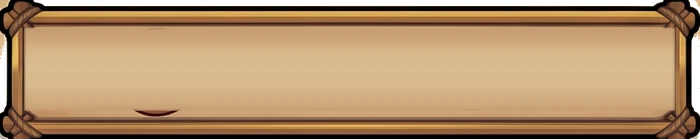
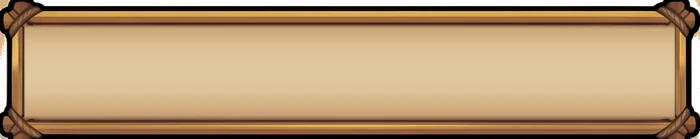
fix(leaderboard): no sideways scroll, styled scrollbar, clean row art
- Rows can scale on hover without a horizontal scrollbar or slipping
  under the frame
- Vertical scrollbar inside the frame in the art's colours
- Row art re-cleaned: no leftover avatar slot outline

diff --git a/apps/client/src/styles.css b/apps/client/src/styles.css
@@ -7074,3 +7074,46 @@ button.code-field {
   transform: translateY(1px) scale(0.97);
   transition-duration: 0.06s;
 }
+
+/* ======================================================================
+   Leaderboard list: no sideways scrolling (the hover scale used to spill
+   over), room around the cards so they don't slip under the frame, and a
+   scrollbar inside the frame in the art's colours
+   ====================================================================== */
+
+.board-dialog .leaderboard__list {
+  overflow-x: hidden;
+  overflow-y: auto;
+  /* space for the 2 % hover scale and the shadow, plus the scrollbar gutter */
+  padding: 6px 6px 8px 8px;
+  margin-right: 2px;
+  scrollbar-gutter: stable;
+  scrollbar-width: thin;
+  scrollbar-color: #b07a3a rgba(90, 56, 26, 0.18);
+}
+
+.board-dialog .leaderboard__list::-webkit-scrollbar {
+  width: 8px;
+}
+
+.board-dialog .leaderboard__list::-webkit-scrollbar-track {
+  margin: 6px 0;
+  border-radius: 999px;
+  background: rgba(90, 56, 26, 0.18);
+}
+
+.board-dialog .leaderboard__list::-webkit-scrollbar-thumb {
+  border-radius: 999px;
+  background: linear-gradient(#d9a24e, #a8743e);
+  border: 1px solid #6b3f1d;
+}
+
+.board-dialog .leaderboard__list::-webkit-scrollbar-button {
+  display: none;
+  height: 0;
+}
+
+/* The pinned row keeps the same side margins as the list rows */
+.board-dialog__body > .lb-row--pinned {
+  margin: 0 16px 0 8px;
+}

diff --git a/CHANGELOG.md b/CHANGELOG.md
@@ -8,6 +8,10 @@ Releases use the root `package.json` version and are tagged `vX.Y.Z` automatical
 
 ### Fixed
 
+- Leaderboard: no horizontal scrollbar when a row is hovered or pressed, and rows no longer slip under the frame; the vertical scrollbar sits inside the frame in the art's colours; a leftover sliver of the old avatar slot behind each picture is gone from the row art.
+
+### Fixed
+
 - Friends and leaderboard rows: hover and press now scale the whole card with its background, not just the content inside it.
 
 ### Changed
